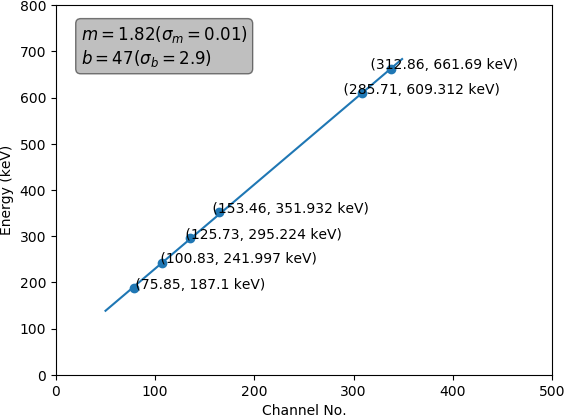
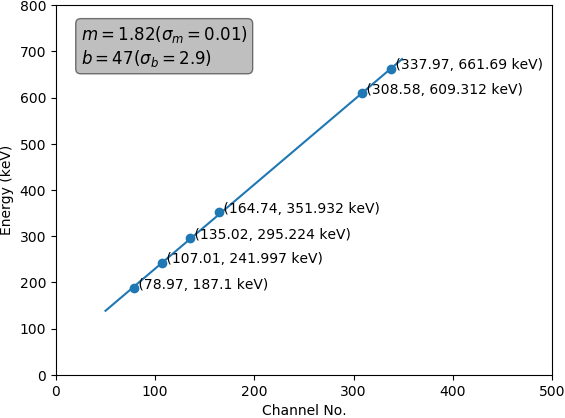
Improved attenuation fits and added some error analysis

Changed region(s): [[0.2407, 0.4665, 0.6619, 0.7153], [0.6018, 0.1244, 0.9628, 0.2488]]

diff --git a/absorption_of_radium.py b/absorption_of_radium.py
@@ -9,24 +9,30 @@ x0 = np.arange(N)
 x = np.linspace(47, 1887.02, 1011)  #Define Energy space that incorporates linear fit parameters
 
 
-###Subtract global background plus costant from Ra-226 attenuated and unattenuated spectra
-Radium_1mm_lead = data_arrays_take_2.sp3-data_arrays_take_2.sp0 - 100
-Radium = data_arrays_take_2.sp2-data_arrays_take_2.sp0 - 100
-Radium_7mm_lead = data_arrays_take_2.sp3_1-data_arrays_take_2.sp0 - 100
-
-peak = slice(280, 333, 1)
-x1 = np.linspace(281, 333, 53)
-
 ###Define an exponential to fit the background
 def exponential(x, A, b):
     return A*np.exp(-x*b)
+
+###Subtract global and local background Ra-226 attenuated and unattenuated spectra
+Radium_1mm_lead = data_arrays_take_2.sp3-data_arrays_take_2.sp0 - exponential(x0, 3500, .0145) -50
+Radium = data_arrays_take_2.sp2-data_arrays_take_2.sp0 - exponential(x0, 3500, .0145) -50
+Radium_7mm_lead = data_arrays_take_2.sp3_1-data_arrays_take_2.sp0 - exponential(x0, 3500, .0145) -50
+
+peak = slice(265, 330, 1)
+x1 = np.linspace(265, 329, 65)
+
+
 
 ###Define a gaussian curve
 def gaussian(x, sigma, X, A):
     return A*np.exp( (-(x-X)**2)/(2*sigma**2))
 
+
+
+
+
 ###Perform fit of 609 keV peak
-ra_params1, ra_param_covar1 = curve_fit(gaussian, x1, Radium[peak], p0 = [100, 310.,1.])
+ra_params1, ra_param_covar1 = curve_fit(gaussian, x1, Radium[peak], p0 = [90, 310.,1.])
 ra_params2, ra_param_covar2 = curve_fit(gaussian, x1, Radium_1mm_lead[peak], p0 = [100, 310.,1.])
 ra_params3, ra_param_covar3 = curve_fit(gaussian, x1, Radium_7mm_lead[peak], p0 = [100, 310.,1.])
 
@@ -45,19 +51,65 @@ for i in range(peak.start, peak.stop + 1):
 
 print sum1, sum2, sum3
 
+###Errors for curve fits
+perr = np.sqrt(np.diag(abs(ra_params1)))   #Gives 1 standard deviation error of fit parameters
+
+print perr
+
+###Calculate Chi^2 of fits
+numerator = 0
+denominator = 0
+sum = 0
+for i in range(peak.start, peak.stop + 1):
+    numerator = ( Radium[i] - gaussian(x0[i], *ra_params2) )**2
+    denominator = gaussian(x0[i], *ra_params2)
+    sum+= (numerator/denominator)
+print "Chi^2 = {sum}".format(sum=sum)
+
+##################
+#Define test data to check functions
+##################
+
+
+def test_gaussian(x, sigma, X):
+    return 1/(sigma*np.sqrt(2*np.pi))*np.exp( (-(x-X)**2)/(2*sigma**2))
+
+
+
+
+
+###Calculate uncertainty of counts
+def count_uncert(sigma, A, dsigma, dA):
+    delta_c = np.sqrt(  np.pi*2*(sigma**2)*(dA)**2     +  2*np.pi*(A*dsigma)**2    )
+    return delta_c
+
+count_uncertainty = count_uncert(ra_params1[0], ra_params1[2], perr[0,0], perr[2,2])
+print count_uncertainty
+
+#Calculate the uncertainty in lead absorption coefficient
+
+def del_mu(I, I0, x, dI, dI0, dx):
+    np.sqrt( (dI0/(x*I0))**2  + (dI/(x*I))**2   + (( np.log(I0/I) * dx)/(x**2))**2    )
+
+delta_mu_1_25mm = del_mu(sum2, sum1, 1.25, 3888, 4586, 0.5)
+print delta_mu_1_25mm
+
+
 #Plot 609keV photopeaks with fits and count no.
 plt.figure(figsize=(10,7))
 plt.plot(x, Radium, label="Unattenuated", color = '#ff474c')
-plt.plot(x, gaussian(x0, *ra_params1), color = '#ff474c', linestyle = '-.', label="Fit")
-plt.plot(x, Radium_1mm_lead, color = '#2c6fbb', label="1 mm attenuator" )
-plt.plot(x, gaussian(x0,  *ra_params2), color = '#2c6fbb', linestyle = '-.', label="Fit")
-plt.plot(x, Radium_7mm_lead, color = '#fec615', label="7 mm attenuator")
-plt.plot(x, gaussian(x0,  *ra_params3), color = '#fec615', linestyle = '-.', label="Fit")
-plt.annotate('14,316', xy=(609, 490), xytext=(609, 490))
+plt.plot(x, gaussian(x0, *ra_params1), color = '#ff474c', linestyle = '-.')
+plt.plot(x, Radium_1mm_lead, color = '#2c6fbb', label="1.25 mm attenuator" )
+plt.plot(x, gaussian(x0,  *ra_params2), color = '#2c6fbb', linestyle = '-.')
+plt.plot(x, Radium_7mm_lead, color = '#fec615', label="6.7 mm attenuator")
+plt.plot(x, gaussian(x0,  *ra_params3), color = '#fec615', linestyle = '-.')
+plt.annotate('14,316 ', xy=(609, 490), xytext=(609, 490))
 plt.annotate('11,945', xy=(609, 390), xytext=(609, 390))
 plt.annotate('5,614', xy=(609, 190), xytext=(609, 190))
-plt.xlim([549,669])
-plt.ylim([0,1000])
+#plt.xlim([0, 1000])
+plt.xlim([550,675])
+plt.ylim([0,800])
+#plt.title("Lead attenuation of Ra-226 609 keV photopeak")
 plt.xlabel("Energy (keV)")
 plt.ylabel("Count")
 plt.legend(loc=1, prop={'size': 15})

diff --git a/error_calculations_take_2.py b/error_calculations_take_2.py
@@ -1,0 +1,65 @@
+import calibration_take_2
+import matplotlib.pyplot as plt
+import numpy as np
+import scipy as sp
+
+#Calculate errors for Channel No. vs. Energy linear fit
+def sigma_y(A, B, x, y):
+    sum = 0.0
+    for i in range( len(y) ):
+            sum += (y[i] - A - B*x[i])**2
+    return np.sqrt( (1/ (len(y)-2.) )  *  sum )
+
+sigma_y = sigma_y(calibration_take_2.b, calibration_take_2.m, calibration_take_2.energy_calibration1[1], calibration_take_2.energies)
+
+#Calculate chi^2 uncertainty
+
+#Calculate uncertainty in parameters m and b in y = mx + b
+def delta(x):
+    sum1 = 0.0
+    sum2 = 0.0
+    for i in range( len(x) ):
+        sum1 += x[i]**2
+        sum2 += (x[i])
+    return len(x)*sum1-(sum2)**2
+
+def sigma_b(sig_y, x, delta):
+    sum = 0.0
+    for i in range (  len(x)):
+        sum += x[i]**2
+    return sig_y* np.sqrt( sum / delta )
+
+def sigma_m(sig_y, x, delta):
+    return sig_y* np.sqrt( len(x) / delta )
+
+delta = delta(calibration_take_2.energy_calibration1[1])
+sigma_b = sigma_b(sigma_y, calibration_take_2.energy_calibration1[1], delta)
+sigma_m = sigma_m(sigma_y, calibration_take_2.energy_calibration1[1], delta)
+
+print sigma_b
+print sigma_m
+#print calibration.m
+
+
+
+
+#Calculate relative resolution of the detector for each photopeak and compute their average/ with uncertainty
+
+#resolutions = np.array( [[len(calibration.energy_calibration1[1])], [len(calibration.energy_calibration1[1])]], np.int32)
+
+def res(sigma, E):
+    res = 0.0
+    sum = 0.0
+    for i in range ( len(calibration_take_2.energy_calibration1[0])):
+        res = (2.*abs(sigma[i])*100.*calibration_take_2.m)/E[i]
+        print res
+#        resolutions.fill(res())
+        sum += res
+    print (sum/ [len(calibration_take_2.energy_calibration1[0])])
+
+
+
+
+
+#resolution = res(calibration.energy_calibration1[0], calibration.energies)
+#print resolution
